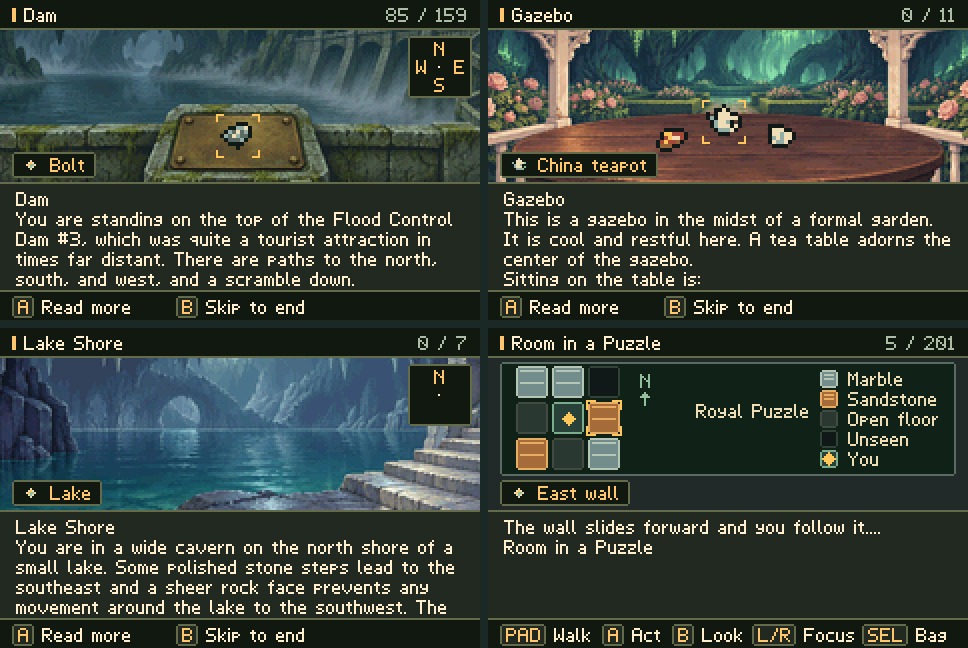
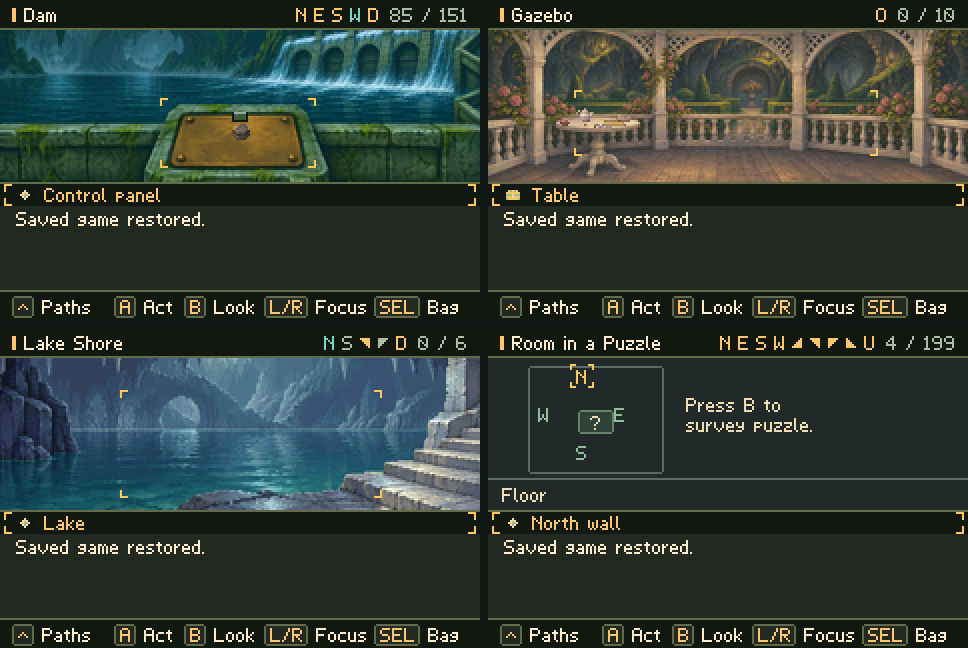
Refresh player docs and align the Royal Puzzle display

diff --git a/src/room_visuals.c b/src/room_visuals.c
@@ -2980,15 +2980,17 @@ static void draw_puzzle_floor_items(const Targets *targets, unsigned focused) {
 static void draw_puzzle_directions(unsigned focused) {
     static const unsigned ids[] = {TARGET_NORTH_WALL, TARGET_EAST_WALL,
                                    TARGET_SOUTH_WALL, TARGET_WEST_WALL};
-    static const int x[] = {44, 63, 44, 25};
-    static const int y[] = {21, 40, 59, 40};
+    static const int dx[] = {0, 19, 0, -19};
+    static const int dy[] = {-19, 0, 19, 0};
     static const char *const labels[] = {"N", "E", "S", "W"};
-    box(20, 19, 68, 54, RGB(32, 45, 41), EDGE);
-    box(45, 41, 18, 12, RGB(51, 69, 60), RGB(103, 128, 107));
-    label(51, 44, "?", CREAM);
+    const int center_x = 54, center_y = 46;
+    box(center_x - 34, center_y - 27, 69, 55, RGB(32, 45, 41), EDGE);
+    box(center_x - 9, center_y - 6, 19, 13, RGB(51, 69, 60), RGB(103, 128, 107));
+    label(center_x - label_width("?") / 2, center_y - 3, "?", CREAM);
     for (unsigned i = 0; i < 4; i++) {
-        label(x[i], y[i], labels[i], focused == ids[i] ? GOLD : TEAL);
-        if (focused == ids[i]) focus_feature_box(ids[i], x[i] - 3, y[i] - 3, 12, 12, 3);
+        int x = center_x + dx[i], y = center_y + dy[i];
+        label(x - label_width(labels[i]) / 2, y - 3, labels[i], focused == ids[i] ? GOLD : TEAL);
+        if (focused == ids[i]) focus_feature_box(ids[i], x - 5, y - 5, 11, 11, 3);
     }
 }
 
@@ -3028,11 +3030,14 @@ void draw_puzzle_map(const PuzzleMap *map, const Targets *targets, unsigned focu
     for (unsigned i = 0; i < 4; i++) {
         if (focused == walls[i]) selected = cells[i];
     }
-    label(76, 23, "N", TEAL);
-    fill(78, 32, 1, 7, TEAL);
-    fill(77, 33, 3, 1, TEAL);
-    fill(76, 34, 5, 1, TEAL);
-    label(104, 38, "Royal Puzzle", CREAM);
+    const int north_x = 76, legend_x = 166;
+    label(north_x, 23, "N", TEAL);
+    fill(north_x + 2, 32, 1, 7, TEAL);
+    fill(north_x + 1, 33, 3, 1, TEAL);
+    fill(north_x, 34, 5, 1, TEAL);
+    const char *heading = "Royal Puzzle";
+    int title_left = north_x + 5;
+    label(title_left + (legend_x - title_left - label_width(heading)) / 2, 38, heading, CREAM);
     for (unsigned i = 0; i < 9; i++) {
         int x = 14 + (i % 3) * 18, y = 19 + (i / 3) * 18;
         map_tile(x, y, 16, map->tiles[i]);
@@ -3042,8 +3047,8 @@ void draw_puzzle_map(const PuzzleMap *map, const Targets *targets, unsigned focu
     const char *const names[] = {"Marble", "Sandstone", "Open floor", "Unseen", "You"};
     for (unsigned i = 0; i < 5; i++) {
         int y = 21 + i * 10;
-        map_tile(166, y, 9, legend[i]);
-        label(180, y + 1, names[i], CREAM);
+        map_tile(legend_x, y, 9, legend[i]);
+        label(legend_x + 14, y + 1, names[i], CREAM);
     }
     draw_puzzle_special_targets(targets, focused);
     draw_puzzle_floor_items(targets, focused);

diff --git a/README.md b/README.md
@@ -1,119 +1,50 @@
 # Zork Trilogy for Game Boy Advance
 
-[**Play Zork Trilogy**](https://github.com/jfgordon2/zork/releases/latest/download/zork-trilogy.gba) contains Infocom’s complete Zork I, II, and III stories on a single cartridge. Copy the ROM into your handheld’s GBA ROM folder or open it in mGBA. Choose a chapter and select **New game**.
+Play Infocom’s complete Zork I, II, and III on one GBA cartridge. The original story programs drive the puzzles, movement, and scoring, while the GBA interface adds illustrated rooms, selectable commands, and an exploration map.
+
+**[Download Zork Trilogy](https://github.com/jfgordon2/zork/releases/latest/download/zork-trilogy.gba)** · [White House demo](https://github.com/jfgordon2/zork/releases/latest/download/zork-white-house.gba) · [mGBA screenshot gallery](https://jfgordon2.github.io/zork/)
 
 ![The Dam, Gazebo, Lake Shore, and Royal Puzzle as displayed in mGBA](docs/images/visual-update.png)
 
-[Browse the interactive mGBA room and state gallery](https://jfgordon2.github.io/zork/)
-
-[Exploration map and Great Cavern screenshots](docs/images/exploration-preview.png)
-
-[Alternate routes and room art in mGBA](docs/images/alternate-preview.png)
-
-[Character encounters in mGBA](docs/images/encounter-preview.png)
-
-[Room items in mGBA](docs/images/item-preview.png) and [item art prompts](assets/items/README.md)
-
-All audit and review reports are indexed in [docs/](docs/README.md).
-
-[Zork I repeat audit](docs/audits/zork-i-re-audit.md) · [Updated Zork I scenes](docs/images/zork-i-followup-preview.png) · [Screen QA checklist](qa/screen-checklist.md)
-
-[Mine scenery, UI access, and save checks](docs/images/zork-i-mine-preview.png)
-
-[Scenery generation rules](assets/SCENERY_RULES.md)
-
-[Background asset wiring audit](docs/audits/background-asset-wiring-audit.md)
-
-[Zork II visual and QA audit](docs/audits/zork-ii-audit.md) · [Selected Zork II issues](docs/images/zork-ii-audit-preview.png) · [All 73 route scenes](docs/images/zork-ii-scene-review.png)
-
-[Zork II scenery update and re-audit](docs/audits/zork-ii-re-audit.md) · [Updated game screens](docs/images/zork-ii-updated-preview.png) · [Updated route scenes](docs/images/zork-ii-updated-scenes.png)
-
-[Zork II completed follow-ups and audit](docs/audits/zork-ii-completion-audit.md) · [Latest game screens](docs/images/zork-ii-completion-preview.png) · [Completed optional scenery](docs/images/zork-ii-completion-scenes.png)
-
-[Route-driven visual consistency and QA audit](docs/audits/visual-route-qa-audit.md) · [Zork III re-audit](docs/audits/zork-iii-re-audit.md) · [Initial Zork III audit](docs/audits/zork-iii-audit.md) · [Connected-scene consistency pass](docs/audits/zork-iii-consistency-pass.md) · [Current backgrounds](docs/images/zork-iii-connected-scenes.png) · [Connected in-game states](docs/images/zork-iii-connected-scene-states.png) · [72-room renderer review](docs/images/zork-iii-scene-review.png) · [Per-screen capture matrix](docs/audits/zork-iii-audit-screens.csv)
-
-[Asset / story consistency review](docs/audits/asset-story-consistency-audit.md) · [Follow-up full sweep](docs/audits/asset-story-consistency-audit-followup.md) · [Code review](docs/audits/code-review.md) · [Parser noun normalization](docs/audits/parser-noun-fix.md) · [Room and encounter placement across connected scenes](docs/art-history/encounter-options/encounter-routes.png)
-
-Compare two pixel-art designs for each encounter in [Zork I](docs/art-history/encounter-options/zork-i.png), [Zork II](docs/art-history/encounter-options/zork-ii.png), and [Zork III](docs/art-history/encounter-options/zork-iii.png). The boards include alternate poses for encounters that change during play.
-
-See all 21 encounters in the shared ImageGen style on the [Zork I lineup](docs/art-history/encounter-options/imagegen-lineup-i.png), [Zork II lineup](docs/art-history/encounter-options/imagegen-lineup-ii.png), and [Zork III lineup](docs/art-history/encounter-options/imagegen-lineup-iii.png).
-
-Compare the encounter style studies in [Zork I](docs/art-history/encounter-options/imagegen-zork-i.png), [Zork II](docs/art-history/encounter-options/imagegen-zork-ii.png), and [Zork III](docs/art-history/encounter-options/imagegen-zork-iii.png). See the [art brief and prompts](docs/art-history/encounter-options/art-brief.md) for the human proportions, shading rules, and sprite sizes.
+Open the ROM in mGBA or load it on a GBA flash cartridge. Choose a chapter, then select **New game** or **Continue saved game**. Use **Start → Save game** before quitting or switching chapters. Each chapter has its own save slot.
 
 ## Controls
 
-| GBA input | In a room | In a menu |
+| Button | In a room | In a menu |
 | --- | --- | --- |
-| Up | Open **Paths**. | Select an entry. |
-| Left / Right | Read the previous or next page of the current response. | Move the cursor in grid and picker screens. |
-| Down | — | Select an entry. |
+| Up | Open **Paths**. | Move up. |
+| Down | | Move down. |
+| Left / Right | Read the previous or next page of the current response. | Move through grids and pickers. |
 | L / R | Cycle through nearby objects and **Room actions**. | Page through long lists. |
 | A | Open actions for the selected object or room. | Confirm. |
-| B | Look around. | Back. |
-| Select | Open the bag and act on carried objects. | |
-| Start | Open the pause menu for saves, the map, controls, and the last story response. | Resume from pause. |
+| B | Look around. | Go back. |
+| Select | Open your bag. | |
+| Start | Open the pause menu. | Resume from pause. |
 
-Press **Up** in a room to open **Paths**. Use the D-pad to choose a direction and **A** to try it. Paths lists possible exits represented by the current room, among north, east, south, west, the four diagonals, up, down, in, and out. The same exits stay visible in the top bar during exploration, including in dark rooms; compact right triangles point toward the four diagonal exits, while **U**, **D**, **I**, and **O** stand for up, down, in, and out. Paths spells out diagonal names. Teal marks a known route back to the room you just left; if that exit is conditional, it keeps its dim text and gets a teal underline. Other conditional routes appear dimmed. In Zork III's Royal Puzzle, a surveyed map hides compass moves blocked by the maze walls. Zork II's Oddly-angled Rooms list every direction because the story reorients their passages; the Carousel also offers its randomized **In** and **Out** moves. Some listed routes depend on story conditions, so the story may still block one until its condition is met. You can also open Paths through **Room actions**. Choose **Room actions → Nearby objects** to see the room's objects in one list. **More actions** groups ways to inspect, handle, and combine objects. For actions that require a tool, the target picker starts with the items in your bag. See [the route state audit](docs/audits/route-state-audit.md) for trace results and remaining QA checks.
+- **Explore.** Open **Paths**, choose a direction, and press **A**. **Way back** marks the known return route. **Conditional** marks exits that may require a story action first.
+- **Act.** Use **L / R** to focus an object and **A** to see what you can do with it. Use **Room actions → Choose command words** to build a command with the buttons. The on-screen keyboard is available under **Start → Enter command**.
+- **Get help.** Open **Start → Hints** for contextual clues, possible **Next steps**, and the complete InvisiClues guides. Press **A** to reveal clues one at a time. **Start → Map** shows known connections, and **Start → Story so far** opens the transcript.
 
-In **Paths**, look for **Way back** beside the known return route and **Conditional** beside exits that may have a requirement. Hold a D-pad direction to scroll through lists, move through pickers, or page through story text. Backing out of a menu returns you to your current story page.
+See the [player guide](docs/player-guide.md) for exit indicators, word selection, saves, and puzzle-specific controls.
 
-Choose **Start → Story so far** to review commands and story responses, newest first. Use **R** for older pages, **L** for newer pages, and **B** to return to the pause menu. The live log has 24 KiB for compact text; recurring phrases are tokenized in RAM and expanded when a page is displayed, so its plain-text history varies with the text. Saving stores the most recent transcript that fits alongside the story snapshot and route history. If either limit is reached, older entries are trimmed.
+## Build and test
 
-Choose **Start → Hints** for help. When a topic matches your room or something you can see, it appears before the complete InvisiClues guide. **Next steps** suggests actions for selected puzzles based on where you have been, what you carry, and your progress, including actions in other rooms. Open a hint topic and press **A** to reveal one clue at a time. Use **Up / Down** to page through long clues, **Left** to revisit an earlier clue, and **B** to go back. Reading hints does not advance the story. [Source and credits](stories/hints/README.md)
-
-The complete original InvisiClues guides are available online for [Zork I](https://dfabulich.github.io/infocom-hints-html/zork-i-the-great-underground-empire.html), [Zork II](https://dfabulich.github.io/infocom-hints-html/zork-ii-the-wizard-of-frobozz.html), and [Zork III](https://dfabulich.github.io/infocom-hints-html/zork-iii-the-dungeon-master.html).
-
-Choose **Start → Map** to see the current room and its known connections. Use the D-pad to select a room and A to center it on the map. L or R switches between compass directions and **Up / Down / In / Out**. Select opens the list of visited rooms. Browsing the map leaves your character in place.
-
-Choose **Room actions → Speak** for **Say**, **Answer**, **Greet**, **Yes**, and **No**. For direct parser commands, choose **Room actions → Choose command words**. In either word picker, choose a first letter and press A to see the chapter’s dictionary words. Use L and R to page, A to add a word, Select to erase the last word, and Start to send up to three words.
-
-In Zork II, **Speak → Learned spells** appears after you hear the Wizard speak a spell aloud. Select a learned spell to say it. Use **Say** to try other words.
-
-Use **Give item** from a character's menu to choose an offering from your bag. Some characters also have a **Give orders** menu. Look for specific actions on objects such as **Cross** on the rainbow and **Hail sailor** on the Viking ship. Dials open a number picker. Use up or down to change a number and left or right to move between digits.
-
-**Start → Enter command** opens the original parser for commands outside the menus. Use the D-pad and A to enter characters, R for space, B to erase, and Start to send. Select goes back.
-
-Choose **Start → Save game** before quitting or switching chapters. Each story has its own in-game save slot. **Continue saved game** restores the story and exploration history. Earlier cartridge saves also load and show known fixed exits between previously visited rooms. On an emulator, keep the cartridge's `.sav` file with the ROM when moving it between devices.
-
-At the end of any chapter, press **A** on the last story page to open the on-screen **Restart / Restore / Quit** menu. Use the D-pad to choose and **A** to confirm.
-
-## Adaptation
-
-Infocom's original Z-machine programs drive movement, puzzles, score, and turn timing. Browsing menus consumes zero story turns. Contextual actions are based on the objects in the current room, their state, and your inventory. Available exits stay in the top bar; the in-scene square compass has been removed. Focus, story pages, and action lists appear below the room at four rows per page.
-
-Dedicated scenes include the White House, Canyon View, the Dam, the Egyptian Room, the Treasure Room, Atlantis, the Gazebo, the Carousel Room, the Tea Room, the Great Cavern, the Wizard’s Workroom, the Lake Shore, the Jewel Room, Cliff Ledge, and Flathead Ocean. Icons identify object types in the room and item menus. Gold corners mark the selected object in scenes with placed props. Portable props disappear from the scene when taken. Other rooms use shared backdrops, and darkness limits which objects you can see.
-
-Both ends of the rainbow crossing have their own views. The Cyclops Room, Pentagram Room, Menhir Room, and guardians’ hallway also have dedicated art. The Cyclops can be seen falling asleep, the menhir shows its current position, and the Viking ship appears on the ocean during its visit.
-
-Character sprites follow the story's current state. Roaming characters appear where you encounter them, and figures like the troll, the old man, and the hooded opponent change poses. The Dragon Room, Zork II Machine Room, Land of Shadow, and Dungeon Entrance have dedicated backdrops. The maze's grating is drawn when you can see it and changes when you open it.
-
-The encounter art uses the shared ImageGen style. Moving characters use floor positions chosen for the current scene. The bat hangs from a cave corner, the live dragon lies across its tunnel, the serpent swims inside its tank, and the sailor appears on the prow. Zork III’s Guardians are visible farther down the hall on approach and stand on either side when you pass between them.
-
-Selected room items use the same pixel-art style as the characters. The story places them on floors, tables, or supports and controls what is visible inside containers. The lantern glows when lit, the cliff chest opens, and the crystal spheres and stands change when they fuse.
-
-The route artwork uses related views for the White House passages, the dam and Frigid River, the Stone Barrow, the Bank of Zork, Hades, the crypt, and the three elevations of the cliff. The house, dam, Aquarium Room, and Crypt Anteroom show changes driven by the story.
-
-Zork III’s Royal Puzzle shows the nearby floor, walls, and unseen tiles on a live map. The selected wall is outlined and the grid redraws when you move or push a wall. After restoring a save inside the puzzle, use **B** to look and refresh the map.
-
-I tested each chapter’s opening, cartridge saves, character sprites, and alternate actions in mGBA 0.10.5. Host replays drove the same button handlers to reach the three endings without the keyboard, with 350 points, 400 points, and 7 potential respectively. Additional replays covered the forest grating shortcut, a different way to lure the dragon, and an alternate crossing of the Guardians’ hallway.
-
-## Build
-
-The reproducible build uses the official devkitPro devkitARM container, which supplies the GBA cross-toolchain. The container runs on either Docker host architecture and compiles the ROM for the GBA's ARM7TDMI using the Makefile's `-mcpu=arm7tdmi -marm` flags.
+Build both ROMs into the checkout with the devkitPro devkitARM container.
 
 ```sh
 docker build -t zork-gba-builder .
 docker run --rm --user "$(id -u):$(id -g)" -v "$PWD:/workspace" zork-gba-builder
 ```
 
-The default command builds both ROMs into the mounted project directory. Pass a Make target after the image name to build one target, such as `zork-trilogy.gba`. Python 3 and Pillow are installed in the image for scene conversion.
+For a local build, install GNU Make, devkitARM, Python 3, and Pillow, then run `make all`. Set `CROSS` and `PYTHON` if your toolchain prefix or Python executable differs from the Makefile defaults.
 
-For a local build, use GNU Make, a devkitARM/`arm-none-eabi` toolchain, Python 3, and Pillow; set `CROSS` to the toolchain prefix and `PYTHON` to the Python executable if needed. Run `make test` with a host C compiler to check story loading, dictionary decoding, parser punctuation, object menus, puzzle map decoding, and save recovery. The suite also drives two winning routes per game and 14 checkpoint scenarios through the controller menus. The scenarios cover puzzle solutions, hazardous routes, vehicle travel, and recovery through Restore or story revival. Use `make test-buttons` to run those replays on their own.
+Run `make test` with a host C compiler. It covers story loading, parser behavior, saves, and controller-only routes through all three chapters, including alternate routes, recovery scenarios, and hints at puzzle milestones. Use `make test-buttons` for the controller replays on their own.
 
-Each winning controller replay opens Hints immediately before and after a puzzle milestone. The checks verify the contextual clue, the changing Next steps list, and that reading hints preserves the story turn, focus, and text page.
+Every push to `main` runs the tests, builds both ROMs, and publishes a release with SHA-256 checksums. [GitHub Releases](https://github.com/jfgordon2/zork/releases)
 
-The original [White House demo](https://github.com/jfgordon2/zork/releases/latest/download/zork-white-house.gba) is also available as a separate seven-room cartridge.
+## Project documentation
 
-Every merge to `main` runs `make test`, builds both ROMs in the same devkitARM container, and publishes them with SHA-256 checksums as a new [GitHub Release](https://github.com/jfgordon2/zork/releases) (`.github/workflows/release.yml`). The download links above always point at the latest release.
-
-The [story releases and licenses](stories/README.md) cover the Infocom games and the adapted MojoZork interpreter. The [scene artwork and ImageGen prompts](assets/README.md) are in the asset directory.
+- [Visual audits, QA reports, and art history](docs/README.md)
+- [Scene artwork and prompts](assets/README.md)
+- [Story releases and license information](stories/README.md)
+- [InvisiClues sources and credits](stories/hints/README.md)

diff --git a/docs/player-guide.md b/docs/player-guide.md
@@ -1,0 +1,45 @@
+# Player guide
+
+See the [quick controls reference](../README.md#controls) for the room and menu buttons.
+
+## Paths and room actions
+
+Press **Up** in a room to open **Paths**. Use the D-pad to choose a direction and **A** to try it. Paths lists possible exits and spells out diagonal names. The same exits appear in the top bar, including in dark rooms. Triangles show diagonal exits. **U**, **D**, **I**, and **O** mean up, down, in, and out.
+
+Teal marks the known route back to the room you just left. A conditional return route uses dim text with a teal underline. Other conditional routes appear dimmed.
+
+In Zork III's Royal Puzzle, a surveyed map hides compass moves blocked by the maze walls. Zork II's Oddly-angled Rooms list every direction because the story reorients their passages; the Carousel also offers its randomized **In** and **Out** moves.
+
+You can also open Paths through **Room actions**. Choose **Room actions → Nearby objects** to see the room's objects in one list. **More actions** groups ways to inspect, handle, and combine objects. For actions that require a tool, the target picker starts with the items in your bag. See [the route state audit](audits/route-state-audit.md) for trace results and remaining QA checks.
+
+In **Paths**, look for **Way back** beside the known return route and **Conditional** beside exits that may have a requirement. Hold a D-pad direction to scroll through lists, move through pickers, or page through story text. Backing out of a menu returns you to your current story page.
+
+## Story history
+
+Choose **Start → Story so far** to review commands and story responses, newest first. Use **R** for older pages, **L** for newer pages, and **B** to return to the pause menu. The game keeps as much recent transcript as fits in memory and in your save. Older entries are trimmed when space runs out.
+
+## Hints
+
+Choose **Start → Hints** for help. When a topic matches your room or something you can see, it appears before the complete InvisiClues guide. **Next steps** suggests actions for selected puzzles based on where you have been, what you carry, and your progress, including actions in other rooms. Open a hint topic and press **A** to reveal one clue at a time. Use **Up / Down** to page through long clues, **Left** to revisit an earlier clue, and **B** to go back. Reading hints does not advance the story. [Source and credits](../stories/hints/README.md)
+
+The complete original InvisiClues guides are available online for [Zork I](https://dfabulich.github.io/infocom-hints-html/zork-i-the-great-underground-empire.html), [Zork II](https://dfabulich.github.io/infocom-hints-html/zork-ii-the-wizard-of-frobozz.html), and [Zork III](https://dfabulich.github.io/infocom-hints-html/zork-iii-the-dungeon-master.html).
+
+## Map
+
+Choose **Start → Map** to see the current room and its known connections. Use the D-pad to select a room and A to center it on the map. L or R switches between compass directions and **Up / Down / In / Out**. Select opens the list of visited rooms. Browsing the map leaves your character in place.
+
+## Commands and conversations
+
+Choose **Room actions → Speak** for **Say**, **Answer**, **Greet**, **Yes**, and **No**. For direct parser commands, choose **Room actions → Choose command words**. In either word picker, choose a first letter and press A to see the chapter’s dictionary words. Use L and R to page, A to add a word, Select to erase the last word, and Start to send up to three words.
+
+In Zork II, **Speak → Learned spells** appears after you hear the Wizard speak a spell aloud. Select a learned spell to say it. Use **Say** to try other words.
+
+Use **Give item** from a character's menu to choose an offering from your bag. Some characters also have a **Give orders** menu. Look for specific actions on objects such as **Cross** on the rainbow and **Hail sailor** on the Viking ship. Dials open a number picker. Use up or down to change a number and left or right to move between digits.
+
+**Start → Enter command** opens the original parser for commands outside the menus. Use the D-pad and A to enter characters, R for space, B to erase, and Start to send. Select goes back.
+
+## Saving and restoring
+
+Choose **Start → Save game** before quitting or switching chapters. Each story has its own in-game save slot. **Continue saved game** restores the story and exploration history. Earlier cartridge saves also load and show known fixed exits between previously visited rooms. On an emulator, keep the cartridge's `.sav` file with the ROM when moving it between devices.
+
+At the end of any chapter, press **A** on the last story page to open the on-screen **Restart / Restore / Quit** menu. Use the D-pad to choose and **A** to confirm.

diff --git a/docs/README.md b/docs/README.md
@@ -1,5 +1,6 @@
 # Project documentation
 
+- [Player guide](player-guide.md) covers paths, hints, the map, commands, and saves.
 - [audits/](audits/): the visual, story-consistency, and code reviews, newest findings last within each chapter.
 - [images/](images/): the preview screenshots and contact sheets those reports and the main README show.
 - [art-history/](art-history/): retired backgrounds and sprites, concept sheets, and encounter design notes. None of it is a build input.
